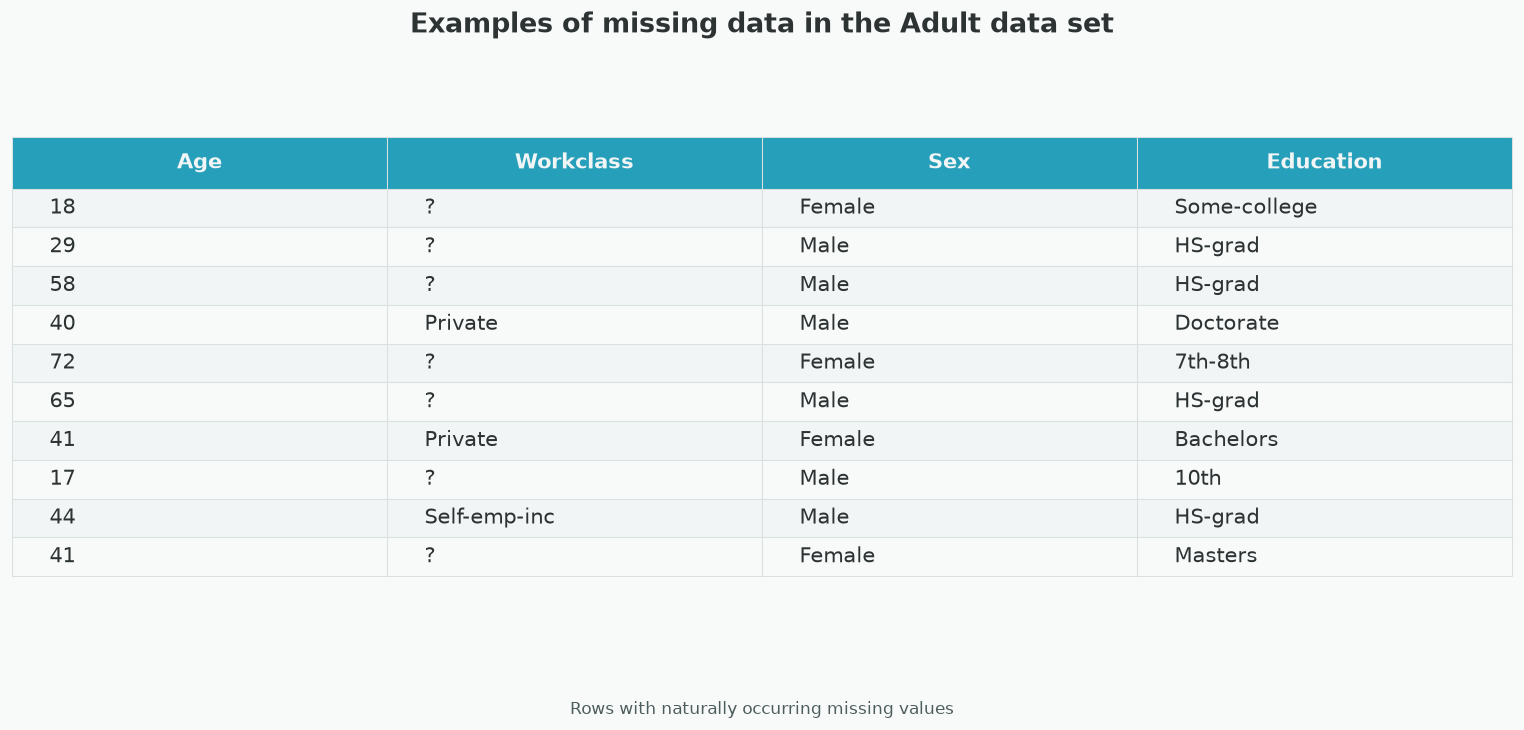
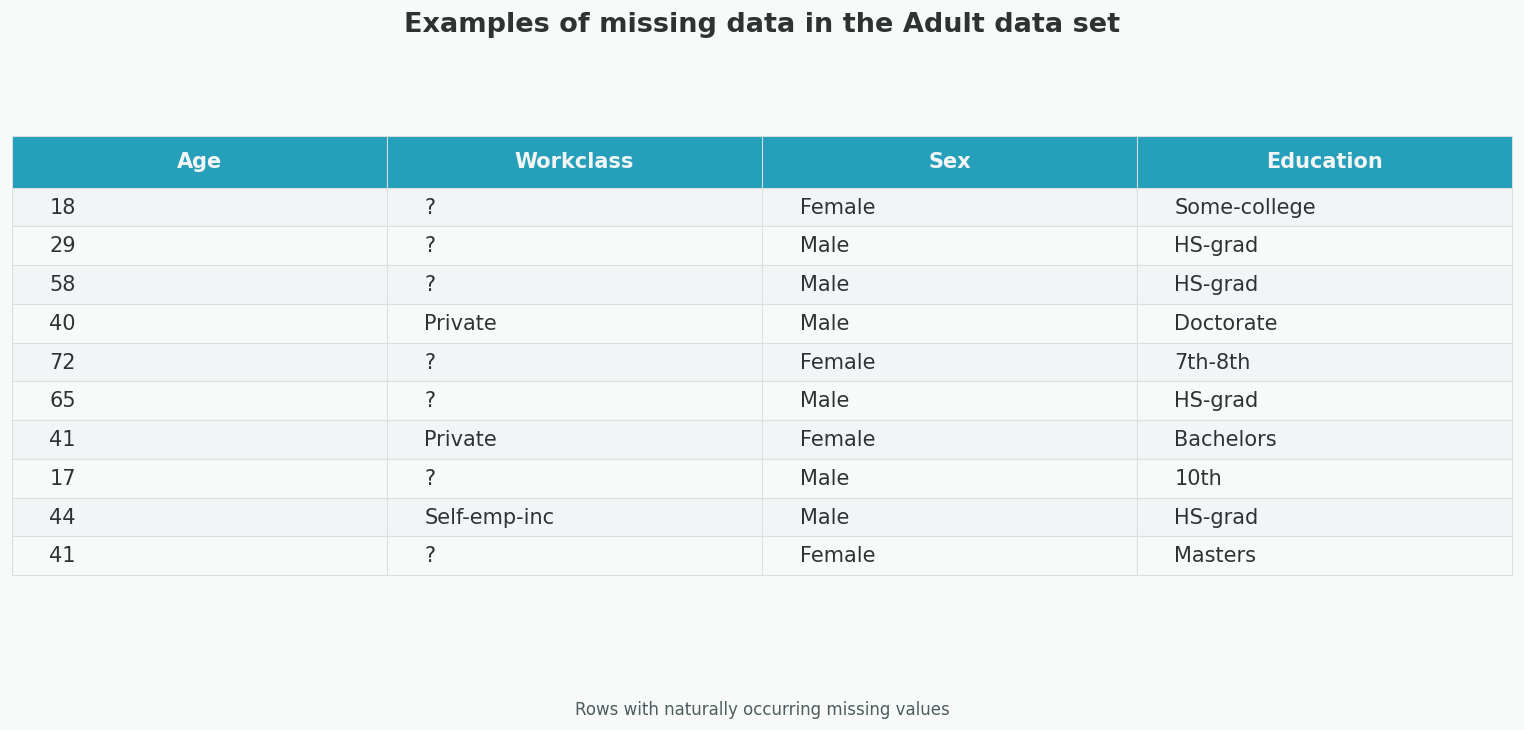
using own plot config

diff --git a/CCPlots/implementation/MissingDataExample.py b/CCPlots/implementation/MissingDataExample.py
@@ -1,33 +1,27 @@
-import pandas as pd
+"""
+Table rendering of naturally occurring missing values from the Adult census
+dataset. Rows with NA cells are shown with ``?`` markers and alternating
+row shading.
+
+Figures
+-------
+- ``naturally_missing_data_table.png`` / ``_NL.png`` — missing-value table
+
+Configuration
+-------------
+``CCPlots/plot_configs/missing_data.json``
+"""
 import matplotlib.pyplot as plt
+import pandas as pd
 from sklearn.datasets import fetch_openml
 
 from CCPlots.PlotExample import PlotExample
-from CCPlots.config import BITROOT_PALETTE, apply_bitroot_style, output_path
-
-TEXT_BY_LOCALE = {
-    "en": {
-        "title": "Examples of missing data in the Adult data set",
-        "col_age": "Age",
-        "col_workclass": "Workclass",
-        "col_sex": "Sex",
-        "col_education": "Education",
-        "na_label": "?",
-        "note": "Rows with naturally occurring missing values",
-    },
-    "nl": {
-        "title": "Voorbeelden van ontbrekende gegevens in de Adult-dataset",
-        "col_age": "Leeftijd",
-        "col_workclass": "Werkklasse",
-        "col_sex": "Geslacht",
-        "col_education": "Opleiding",
-        "na_label": "?",
-        "note": "Rijen met van nature ontbrekende waarden",
-    },
-}
+from CCPlots.config import BITROOT_PALETTE, output_path
 
 
-class MissingDataExample(PlotExample):
+class MissingData(PlotExample):
+
+    CONFIG_KEY = "missing_data"
 
     def main(self) -> None:
         dataset = fetch_openml(data_id=1590, as_frame=True)
@@ -37,8 +31,7 @@ class MissingDataExample(PlotExample):
         if df_missing.empty:
             return
 
-        for locale, labels in (("en", TEXT_BY_LOCALE["en"]), ("nl", TEXT_BY_LOCALE["nl"])):
-            fname = f"naturally_missing_data_table{'_NL' if locale == 'nl' else ''}.png"
+        for _locale, labels, suffix in self.iter_locales():
             display = df_missing.head(10)[["age", "workclass", "sex", "education"]].copy()
             display.columns = [labels["col_age"], labels["col_workclass"],
                                labels["col_sex"], labels["col_education"]]
@@ -100,10 +93,11 @@ class MissingDataExample(PlotExample):
                     color=BITROOT_PALETTE['secondary_text'],
                     ha='center', va='top', transform=ax.transAxes)
 
+            fname = self.resolve_output("default", suffix=suffix)
             fig.savefig(output_path(fname), bbox_inches='tight', pad_inches=0.08,
-                        dpi=150)
+                        dpi=self.config.dpi)
             plt.close(fig)
 
 
 if __name__ == "__main__":
-    MissingDataExample().main()
+    MissingData().main()
